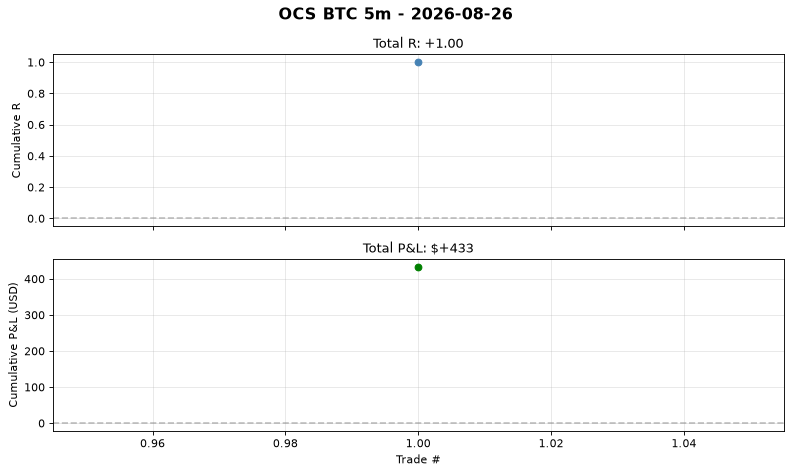
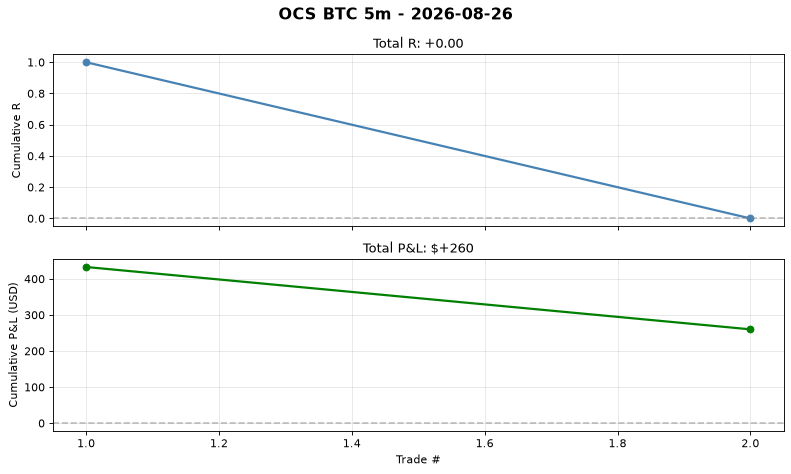
auto(ocs-btc): signal log 2026-08-25T20:03 trades=2

diff --git a/automation/reports/ocs_btc_5m/daily/2026-08-26.md b/automation/reports/ocs_btc_5m/daily/2026-08-26.md
@@ -2,4 +2,4 @@
 
 **No trades today.**
 
-Cumulative stats: 1 trades | WR 100.0% | avg R 1.0
+Cumulative stats: 2 trades | WR 50.0% | avg R 0.0
